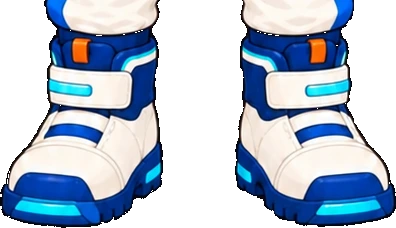
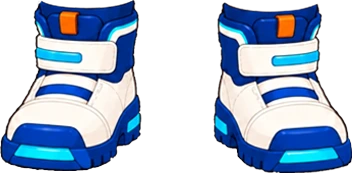
남아 우주 부츠 새 원화로 교체 (#826)
두 짝을 따로 잘라 배율 0.72·밑창 y949 로 남아 다리·발바닥에 맞추고, 여아 우주 부츠처럼 옷 위(z37)로 그린다. 상점 그림도 새 원화로. img·thumb ?v=2.

Claude-Session: https://claude.ai/code/session_018maNuYqDfFyRSe9uKpZhPR

diff --git a/src/data/avatarEquipment.js b/src/data/avatarEquipment.js
@@ -374,7 +374,11 @@ export const AVATAR_CATALOG = [
      튀어나온 부분만 보이면 되므로 앞으로 끌어올 필요가 없었다). */
   { id: "back_rocket",    slot: "back",  label: "로켓 가방",    emoji: "🚀", price:DECOR_PRICE.rare, rarity: "rare", theme: "space", forGender: "boy", img: "assets/avatar/back/rocket-pack-boy.webp", thumb: "assets/avatar/thumb/back_rocket.webp" },
   /* 우주 부츠 — 우주복 바지 밑단(y1425 근처)에 발목깃이 물리게 맞췄다. */
-  { id: "shoes_astronaut",slot: "shoes", label: "우주 부츠",    emoji: "🥾", price:DECOR_PRICE.common, rarity: "common", theme: "space", forGender: "boy", img: "assets/avatar/shoes/astronaut-boots-boy.webp", thumb: "assets/avatar/thumb/shoes_astronaut.webp" },
+  /* [2026-10-03] 새 원화로 교체 — 남색·흰 우주 부츠(하늘색 띠·주황 탭) 두 짝, 사용자 원화 352×173. 위 탑재값은 옛 판 기록.
+     여아 신발과 같은 방식 — 두 짝을 따로 잘라 원화 부츠목 가운데(왼짝 x85 · 오른짝 x56.5)를 남아 다리 가운데(x450.5 · x574.5)에,
+     배율 0.72, 밑창 아래끝 y949(밑창 홈 사이로 발가락이 비치지 않게 발바닥 y939 보다 10 아래), 왼짝 +2·오른짝 −2. 맨발 9px(밑창 홈 끝, 눈에 안 띔).
+     여아 우주 부츠처럼 옷 위로 그린다(z37, 사용자 확정 "우주 부츠는 옷 위로"). 탑재 상자 (391,824,632,949). img·thumb ?v=2. */
+  { id: "shoes_astronaut",slot: "shoes", label: "우주 부츠",    emoji: "🥾", price:DECOR_PRICE.common, rarity: "common", theme: "space", forGender: "boy", z: 37, img: "assets/avatar/shoes/astronaut-boots-boy.webp?v=2", thumb: "assets/avatar/thumb/shoes_astronaut.webp?v=2" },
 
   /* 해적 신발 — 남아 신발 원화(사용자 원화 2026-10-01). 해적 옷(top_pirate)과 같은
      테마라 같은 이름을 썼다. [2026-10-01 재조정] 해적 남아 원화와 비교하니 베이스가

diff --git a/art-src/README.md b/art-src/README.md
@@ -357,7 +357,7 @@ getBoundingClientRect로 재서 정한다. 2026-08-05 점검에서 이 기준을
 | space-boy-src.webp | **우주복 원화 남아 — 새 판 (사용자 원화 2026-10-03, 이전 판 교체)**. 461×713 투명 배경, 흰 우주복(남색 목깃·어깨·소매·벨트·무릎보호대, 제어판·토성 패치, 주황 포인트) 발목까지 한 벌 — 앞 판(2026-09-29 우주 세트)과 같은 디자인에 어깨·소매가 다 그려졌다. 목깃 안(원화 y0~31, x140~329)의 R≥B 픽셀(턱선·목 살)을 지워 베이스 목이 비치게 했다. 앞 판 자리(배율 0.716, 상관 0.95)에서는 어깨 위로 베이스 어깨·속옷 끈이 비쳐, 목깃 가운데 x230.5 → x516, 배율 0.758, 목깃 위끝 y394 로 올려 어깨를 덮음. 바지 끝 y934 가 우주 부츠의 부츠목을 덮는다. 탑재 상자 (341,394,690,934) · img ?v=4 **[2026-10-03 조정]** 8% 작게(0.6974, 목깃 고정), 상자 (355,394,677,891) · img ?v=5. 위로 3(목깃 y391), 상자 (355,391,677,888) · img ?v=6. 왼쪽 3·위로 2(목깃 x513·y389), 상자 (352,389,674,886) · img ?v=7. 오른쪽 1(목깃 x514), 상자 (353,389,675,886) · img ?v=8. 1% 작게(0.6904)·위로 1(목깃 y388), 상자 (355,388,673,880) · img ?v=9. 화면 왼쪽 다리만 오른쪽으로 1(사타구니 y676 부터 60px 에 걸쳐 0→1px) · img ?v=10. 같은 방식으로 1 더(합계 2px) · img ?v=11 | avatar/top/space-suit-boy.webp |
 | astronaut-helmet-boy-src.webp | **우주 헬멧 원화 남아 (사용자 원화 2026-09-29, 우주 세트 2/4 — '옷+헬멧' 그림에서 목깃 아래를 잘라 보관)** — 554×480 캔버스, 이미 '쓰고 있는 머리 그림'이라 얼굴 위치를 눈으로 맞출 필요가 없었다. 흰 돔 + 남색 링·귀 스피커 + 하늘색 바이저 하이라이트. hidesHead(베이스 머리 전체를 이 그림이 대신한다). 배율은 우주복과 같은 0.638 — 헬멧 밑단(목깃 최고점, 원화 y632)을 우주복 목깃 위끝(y640)과 같은 자리(y405)에 맞춰서 둘 사이에 틈이나 겹침이 없다. 탑재 상자 (216,2)-(569,308). **[2026-09-30] 사용자가 미리보기로 써 보고 바로 빼 달라고 해서 카탈로그에서 뺐다**(hat_astronaut, RETIRED_ITEM_INFO) — 그림·원본은 CLAUDE.md 6 번과 달리 '교체'가 아니라 '보류'라 그대로 둔다 | avatar/hat/astronaut-helmet-boy.webp |
 | rocket-pack-boy-src.webp | **로켓 가방 원화 남아 (사용자 원화 2026-09-29, 우주 세트 4/4 — '옷+헬멧+가방+신발' 그림에서 오려 냄)** — 142×321 캔버스. 원화가 어깨 너머로 비스듬히 얹힌 로켓이라, 등 슬롯 기본 z(15, 몸통 뒤)로 두면 몸통 실루엣 밖으로 삐져나온 부분만 보이는데 그게 딱 원화가 보여 주는 모습이라 **z를 따로 안 올렸다**(탐험 배낭 어깨끈과 달리 앞으로 끌어올 필요가 없었다). 떼어내는 방법: '같은 세트의 신발까지만 있는 그림'(옷+헬멧+신발, 가방 없음)과 특징점 정합(ORB)한 뒤, 몸통 실루엣을 15px 넉넉히 부풀려 그 밖으로 나온 덩어리만 남겼다(색차가 아니라 실루엣 비교라 몸통색과 겹쳐도 안전). 탑재 배율 0.638 그대로, 세트 정합으로 계산한 상자 (222,39 기준계)를 거쳐 최종 탑재 | avatar/back/rocket-pack-boy.webp |
-| astronaut-boots-boy-src.webp | **우주 부츠 원화 남아 (사용자 원화 2026-09-29, 우주 세트 3/4 — '옷+헬멧+신발' 그림에서 발목 위를 잘라 보관)** — 396×228 캔버스. 흰 부츠 + 남색 발목 스트랩·밑창 + 주황 포인트. 우주복 바지 밑단(y1425)에 발목깃이 물리도록 맞췄다(발목깃 원화 y1295부터 보관). 배율 0.638 · 탑재 상자 (222,39)-(618,357) | avatar/shoes/astronaut-boots-boy.webp |
+| astronaut-boots-boy-src.webp | **우주 부츠 원화 남아 — 새 판 (사용자 원화 2026-10-03, 이전 판 교체)**. 352×173 투명 배경, 남색·흰 우주 부츠(하늘색 띠·주황 탭) 두 짝. 두 짝(x0~141 · x213~351)을 따로 잘라 배율 0.72, 부츠목 가운데를 남아 다리 가운데(x450.5·x574.5)에 두고 왼짝 +2·오른짝 −2, 밑창 아래끝 y949. 맨발 9px. 옷 위로(z37). 탑재 상자 (391,824,632,949). 상점 그림도 원화를 세로 160px 로 바꿈 | avatar/shoes/astronaut-boots-boy.webp · thumb/shoes_astronaut.webp |
 | pirate-boots-boy-src.webp | **해적 신발 원화 남아 (사용자 원화 2026-10-01)** — 1848×851 캔버스, 받을 때 이미 알파가 있었지만 **알파 1~19 짜리 헤일로 5,506px**가 있어 눌러서 보관했다(알파≥20 상자 (501,248)-(1325,673), 눌러 자른 저장본은 825×426). 갈색 가죽 + 금색 버클. **탑재**: 베이스 다리가 신발 짝 사이 간격보다 좁아 균등 배율(0.3404)로는 발이 신발 안쪽에 치우쳐 보였다 — 가로만 0.300 으로 더 눌러(세로 0.3404 유지) 다리 중심(왼 440·오른 580)에 맞췄다. 밑단 위끝은 우주 부츠와 같은 y865 — 신발 종류가 바뀌어도 밑단 높이가 안 흔들린다 | avatar/shoes/pirate-boots-boy.webp |
 | (딸기 소풍·별빛 마법사 재탑재 2026-09-25) | **원화가 언젠가 '옷만 오려 낸 깨끗한 그림'으로 바뀌어 있었는데 탑재본은 옛날 '색으로 떼어낸' 판 그대로였다.** 그래서 탑재본에는 손·목 조각과 **천에 뚫린 구멍**이 남아 있었다 (딸기 소풍: 안쪽 구멍 42개 10,954px — 깅엄의 흰 칸과 크림 블라우스가 통째로 날아가 있었다. 입은 모습에선 베이스의 흰 속옷이 블라우스 노릇을 해서 안 보였고, 상점 카드도 배경이 흰색이라 가려졌다). **패치가 아니라 깨끗한 원화에서 다시 올렸다.** 현재 자리를 지키려고 옛 탑재본과 색이 가장 잘 맞는 배율·오프셋을 찾아 썼다 (마법사 0.583/(263,-32) 색차 7.4 · 소풍 0.596/(259,-44) 색차 19.7, 덮임 97%). 새 상자 — 마법사 (353,356)-(667,755) · 소풍 (372,366)-(651,686). 경로에 `?v=2` 를 붙였다. **교훈: 원화가 새 판으로 바뀌면 탑재본도 같이 다시 올릴 것** | avatar/top/magic-outfit-girl.webp · picnic-outfit-girl.webp |
 | (신발·가방 검사 2026-09-25) | **신발 5종·가방 4종 모두 깨끗했다** (조각·구멍 없음, 흰·자홍 배경 둘 다 확인). 다만 **아홉 개 다 상점에 없다** — 2026-08-20 사용자 확정으로 뺀 은퇴 아이템이고 그림만 남겨 둔 것이다(RETIRED_ITEM_INFO 참고). 하의 3종(크림·데님·카키 반바지)도 같다. 다시 넣게 되면 그대로 쓸 수 있다 | (미탑재 — 파일만 보관) |
